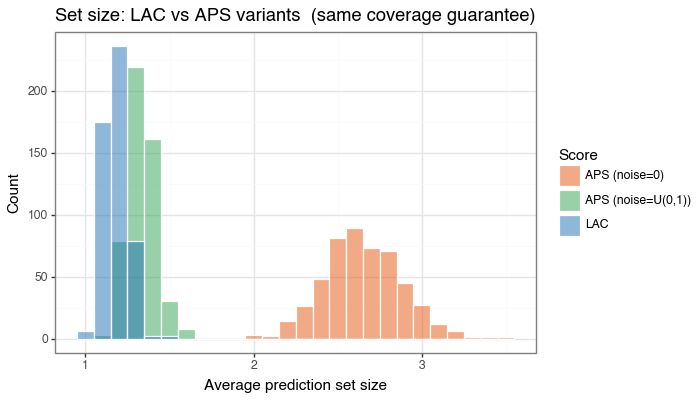
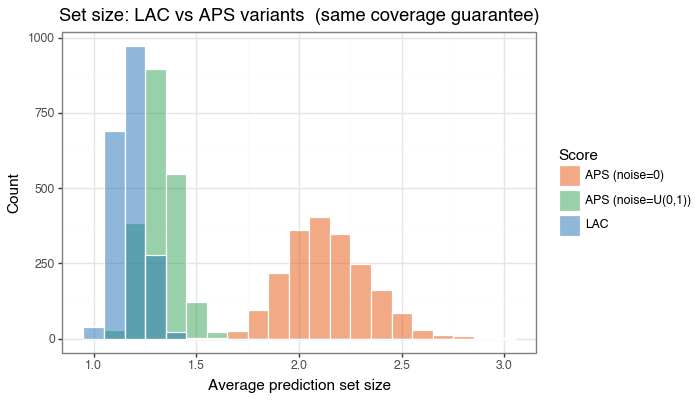
comparative plot fixed

diff --git a/_rmd/extra_conformal/post_figures.py b/_rmd/extra_conformal/post_figures.py
@@ -28,6 +28,7 @@ from _rmd.extra_conformal.utils import (
     NoisyGLM, simulation_cp,
     LinearQuantileRegressor, QuantileRegressors,
     StudentizedEstimator,
+    TemperatureScaledClassifier,
 )
 from _rmd.extra_conformal.conformal import (
     conformal_sets,
@@ -42,6 +43,9 @@ os.makedirs(dir_figs, exist_ok=True)
 
 seed = 42
 rng  = np.random.default_rng(seed)
+temperature_lac = 1.0
+temperature_aps_rand = 1.0
+temperature_aps_det = 5.0
 
 
 def parse_targets() -> set:
@@ -142,7 +146,10 @@ if 'digits' in targets:
     X_te, y_te   = raw_X_noisy[idx_test],  raw_y[idx_test]
 
     # Fit logistic regression with L2 to prevent perfect separation on noisy data
-    f_dig = LogisticRegression(C=0.1, max_iter=2000)
+    f_dig = TemperatureScaledClassifier(
+        base_estimator=LogisticRegression(C=0.1, max_iter=2000),
+        temperature=temperature_lac,
+    )
     f_dig.fit(X_tr, y_tr)
 
     # Calibrate LAC
@@ -237,19 +244,22 @@ if 'digits_v2' in targets:
     X_cal, y_cal = raw_X_noisy[idx_calib], raw_y[idx_calib]
     X_te, y_te   = raw_X_noisy[idx_test], raw_y[idx_test]
 
-    f_dig = LogisticRegression(C=0.1, max_iter=2000)
-    f_dig.fit(X_tr, y_tr)
-
     method_specs = [
-        ('LAC', score_lac, {}),
-        ('APS (noise=U(0,1))', score_aps, {'noise': 'uniform', 'random_state': 42}),
-        ('APS (noise=0)', score_aps, {'noise': 0.0, 'random_state': 42}),
+        ('LAC', score_lac, {}, temperature_lac),
+        ('APS (noise=U(0,1))', score_aps, {'noise': 'uniform', 'random_state': 42}, temperature_aps_rand),
+        ('APS (noise=0)', score_aps, {'noise': 0.0, 'random_state': 42}, temperature_aps_det),
     ]
 
     cp_methods = {}
-    for method_name, score_cls, score_kwargs in method_specs:
+    f_methods = {}
+    for method_name, score_cls, score_kwargs, temp in method_specs:
+        f_method = TemperatureScaledClassifier(
+            base_estimator=LogisticRegression(C=0.1, max_iter=2000),
+            temperature=temp,
+        )
+        f_method.fit(X_tr, y_tr)
         cp = conformal_sets(
-            f_theta=f_dig,
+            f_theta=f_method,
             score_fun=score_cls,
             alpha=alpha_d,
             upper=True,
@@ -257,10 +267,10 @@ if 'digits_v2' in targets:
         )
         cp.fit(x=X_cal, y=y_cal)
         cp_methods[method_name] = cp
-        print(f'  {method_name}: qhat={cp.qhat:.3f}')
+        f_methods[method_name] = f_method
+        print(f'  {method_name}: T={temp:.1f}, qhat={cp.qhat:.3f}')
 
     classes = np.arange(10)
-    phat_te = f_dig.predict_proba(X_te)
 
     # Pick 4 examples with varied LAC set sizes for diverse rows.
     lac_sets = cp_methods['LAC'].predict(X_te)
@@ -281,38 +291,71 @@ if 'digits_v2' in targets:
                 break
 
     panel_rows = []
+    panel_ann = []
+    panel_order = []
     for row_id, i in enumerate(picked, start=1):
-        phat_i = phat_te[i]
         true_i = int(y_te[i])
         example_label = f'Example {row_id}: true={true_i}'
-        for method_name, _, _ in method_specs:
+        for method_name, _, _, _ in method_specs:
             cp_i = cp_methods[method_name]
+            f_i = f_methods[method_name]
             qhat_i = cp_i.qhat
-            tau_i = cp_i.predict(X_te[[i]])[0]
-            in_set_i = set(tau_i)
+            phat_i = f_i.predict_proba(X_te[[i]])[0]
+            panel_id = f'{example_label} | {method_name}'
+            panel_order.append(panel_id)
 
-            # LAC has a global probability cutoff; APS has an example-specific
-            # boundary in probability space, so use the minimum included
-            # probability as a visual boundary for that panel.
             if method_name == 'LAC':
-                cutoff_prob = 1.0 - qhat_i
-            elif len(in_set_i) > 0:
-                cutoff_prob = float(np.min([phat_i[c] for c in in_set_i]))
+                idx_ord = np.arange(len(classes))
+                probs_sorted = phat_i[idx_ord]
+                in_set_sorted = probs_sorted >= (1.0 - qhat_i)
+                u_sorted = np.full_like(probs_sorted, np.nan, dtype=float)
+                cum_sorted = np.full_like(probs_sorted, np.nan, dtype=float)
+                ncs_sorted = np.full_like(probs_sorted, np.nan, dtype=float)
+                threshold_y = 1.0 - qhat_i
             else:
-                cutoff_prob = np.nan
+                idx_ord = np.argsort(-phat_i)
+                probs_sorted = phat_i[idx_ord]
+                u_sorted = cp_i.score_fun.draw_noise(probs_sorted.shape[0])
+                cum_sorted = np.cumsum(probs_sorted)
+                ncs_sorted = cum_sorted - u_sorted * probs_sorted
+                in_set_sorted = ncs_sorted <= qhat_i
+                threshold_y = qhat_i
+                idx_true = int(np.where(idx_ord == true_i)[0][0])
+                u_true = float(u_sorted[idx_true])
+                ann_label = f'u_true={u_true:.2f}'
+            
+            first_x_key = f'{panel_id}|01|{int(idx_ord[0])}'
+            if method_name == 'LAC':
+                ann_label = ''
+            panel_ann.append({
+                'panel_id': panel_id,
+                'x_key': first_x_key,
+                'y': 0.985,
+                'label': ann_label,
+            })
 
-            for c in classes:
+            for rank, c in enumerate(idx_ord, start=1):
+                x_key = f'{panel_id}|{rank:02d}|{int(c)}'
                 panel_rows.append({
                     'example': example_label,
                     'method': method_name,
-                    'class': str(c),
-                    'prob': float(phat_i[c]),
-                    'cutoff_prob': cutoff_prob,
-                    'in_set': bool(c in in_set_i),
+                    'panel_id': panel_id,
+                    'x_key': x_key,
+                    'class': str(int(c)),
+                    'prob': float(probs_sorted[rank - 1]),
+                    'cum_prob': float(cum_sorted[rank - 1]) if method_name != 'LAC' else np.nan,
+                    'ncs': float(ncs_sorted[rank - 1]) if method_name != 'LAC' else np.nan,
+                    'threshold_y': float(threshold_y),
+                    'u_draw': float(u_sorted[rank - 1]) if method_name != 'LAC' else np.nan,
+                    'in_set': bool(in_set_sorted[rank - 1]),
                     'true': bool(c == true_i),
                 })
 
     dat_v2 = pd.DataFrame(panel_rows)
+    dat_ann = pd.DataFrame(panel_ann)
+    panel_order = list(dict.fromkeys(panel_order))
+    dat_v2['panel_id'] = pd.Categorical(dat_v2['panel_id'], categories=panel_order, ordered=True)
+    dat_ann['panel_id'] = pd.Categorical(dat_ann['panel_id'], categories=panel_order, ordered=True)
     dat_v2['fill_group'] = np.where(dat_v2['true'], 'true label', 'other label')
     dat_v2['edge_group'] = np.where(dat_v2['in_set'], 'in set', 'excluded')
 
@@ -320,17 +363,28 @@ if 'digits_v2' in targets:
     dat_v2['method'] = pd.Categorical(dat_v2['method'], categories=method_order, ordered=True)
 
     gg_dig_v2 = (
-        pn.ggplot(dat_v2, pn.aes(x='class', y='prob', fill='fill_group', color='edge_group'))
+        pn.ggplot(dat_v2, pn.aes(x='x_key'))
         + pn.theme_bw()
-        + pn.geom_col(size=0.85)
-        + pn.geom_hline(pn.aes(yintercept='cutoff_prob'), linetype='dashed', color='black', size=0.5)
-        + pn.facet_grid('example~method')
+        + pn.geom_col(pn.aes(y='prob', fill='fill_group', color='edge_group'), size=0.85)
+        + pn.geom_line(pn.aes(y='cum_prob', group='panel_id'), color='#6A51A3', size=0.7)
+        + pn.geom_point(pn.aes(y='ncs', group='panel_id'), color='#FF7F0E', size=1.2, alpha=0.9)
+        + pn.geom_hline(pn.aes(yintercept='threshold_y'), linetype='dashed', color='black', size=0.5)
+        + pn.geom_text(
+            pn.aes(x='x_key', y='y', label='label'),
+            data=dat_ann,
+            inherit_aes=False,
+            ha='left',
+            va='top',
+            size=7,
+        )
+        + pn.facet_wrap('~panel_id', nrow=4, scales='free_x')
         + pn.scale_fill_manual(values={'true label': '#2171B5', 'other label': '#D9D9D9'})
         + pn.scale_color_manual(values={'in set': '#2CA02C', 'excluded': '#D62728'})
+        + pn.scale_x_discrete(labels=lambda xs: [x.split('|')[-1] for x in xs])
         + pn.scale_y_continuous(limits=(0, 1))
         + pn.labs(x='Digit class', y='Predicted probability', fill='Label type', color='Set membership')
-        + pn.ggtitle('Digits prediction sets (4x3): LAC vs APS variants\n'
-                     f'Rows=examples, columns=methods, α={alpha_d}; dashed line is method-specific probability cutoff')
+        + pn.ggtitle('Digits prediction sets in score space (4x3): LAC vs APS variants\n'
+                     f'LAC uses p_y cutoff; APS uses ranked classes, purple=cumsum, orange=cumsum-U*p, dashed=qhat, α={alpha_d}')
         + pn.theme(
             legend_position='bottom',
             figure_size=(13, 10),
@@ -357,27 +411,38 @@ if 'class_coverage' in targets or 'class_setsize' in targets:
     n_train_c  = 250
     n_calib_c  = 500
     n_val_c    = 100
-    nsim_c     = 500
+    nsim_c     = 2000
     alpha_c    = 0.10
 
     dgp_c = dgp_multinomial(p_sim, k_sim, snr=snr_c, seeder=seed)
 
     results_class = {}
     class_specs = [
-        ('LAC', score_lac, {}),
-        ('APS (noise=0)', score_aps, {'noise': 0.0, 'random_state': seed}),
-        ('APS (noise=U(0,1))', score_aps, {'noise': 'uniform', 'random_state': seed}),
+        ('LAC', score_lac, {}, temperature_lac),
+        ('APS (noise=0)', score_aps, {'noise': 0.0, 'random_state': seed}, temperature_aps_det),
+        ('APS (noise=U(0,1))', score_aps, {'noise': 'uniform', 'random_state': seed}, temperature_aps_rand),
     ]
     method_colors = {
         'LAC': '#2171B5',
         'APS (noise=0)': '#E6550D',
         'APS (noise=U(0,1))': '#31A354',
     }
-    for score_name, score_cls, score_kwargs in class_specs:
-        mdl_c = NoisyGLM(max_iter=250, noise_std=0.0, seeder=seed,
-                         subestimator=LogisticRegression, penalty=None)
-        cp_c = conformal_sets(f_theta=mdl_c, score_fun=score_cls,
-                              alpha=alpha_c, upper=True, **score_kwargs)
+    for score_name, score_cls, score_kwargs, temp in class_specs:
+        mdl_c = NoisyGLM(
+            max_iter=250,
+            noise_std=0.0,
+            seeder=seed,
+            temperature=temp,
+            subestimator=LogisticRegression,
+            penalty=None,
+        )
+        cp_c = conformal_sets(
+            f_theta=mdl_c,
+            score_fun=score_cls,
+            alpha=alpha_c,
+            upper=True,
+            **score_kwargs,
+        )
         sim_c = simulation_cp(dgp=dgp_c, ml_mdl=mdl_c, cp_mdl=cp_c,
                               is_classification=True)
         res = sim_c.run_simulation(n_train=n_train_c, n_calib=n_calib_c,
@@ -385,7 +450,7 @@ if 'class_coverage' in targets or 'class_setsize' in targets:
                                    force_redraw=True, n_iter=100, verbose=True)
         res['method'] = score_name
         results_class[score_name] = res
-        print(f"  {score_name}: cover={100*res['cover'].mean():.1f}%  "
+        print(f"  {score_name} (T={temp:.1f}): cover={100*res['cover'].mean():.1f}%  "
               f"set_size={res['set_size'].mean():.2f}")
 
     dat_class = pd.concat(results_class.values(), ignore_index=True)
@@ -466,6 +531,7 @@ if 'coverage_vs_alpha' in targets:
     rows_sweep   = []
     for a in alphas_sweep:
         mdl_sw = NoisyGLM(max_iter=250, noise_std=0.0, seeder=seed,
+                          temperature=temperature_lac,
                           subestimator=LogisticRegression, penalty=None)
         cp_sw  = conformal_sets(f_theta=mdl_sw, score_fun=score_lac,
                                 alpha=a, upper=True)

diff --git a/_rmd/extra_conformal/utils.py b/_rmd/extra_conformal/utils.py
@@ -30,6 +30,43 @@ def check_named_args(func, arg_names):
     assert matches, f'woops function={func} did not have named arguments={arg_names}, instead it had {param_names}'
 
 
+def temperature_scale_proba(proba: np.ndarray, temperature: float) -> np.ndarray:
+    """Apply temperature scaling to a probability matrix.
+
+    temperature=1 leaves probabilities unchanged. Higher values flatten,
+    lower values sharpen.
+    """
+    t = float(temperature)
+    if t <= 0:
+        raise ValueError('temperature must be > 0')
+    if np.isclose(t, 1.0):
+        return proba
+    logp = np.log(np.clip(proba, 1e-12, 1.0)) / t
+    logp = logp - logp.max(axis=1, keepdims=True)
+    p = np.exp(logp)
+    return p / p.sum(axis=1, keepdims=True)
+
+
+class TemperatureScaledClassifier(BaseEstimator):
+    """Wrap any classifier with predict_proba and apply temperature scaling."""
+    def __init__(self, base_estimator: Any, temperature: float = 1.0):
+        self.base_estimator = base_estimator
+        self.temperature = temperature
+
+    def fit(self, X: np.ndarray, y: np.ndarray, **kwargs):
+        self.base_estimator.fit(X, y, **kwargs)
+        if hasattr(self.base_estimator, 'classes_'):
+            self.classes_ = self.base_estimator.classes_
+        return self
+
+    def predict(self, X: np.ndarray) -> np.ndarray:
+        return self.base_estimator.predict(X)
+
+    def predict_proba(self, X: np.ndarray) -> np.ndarray:
+        p = self.base_estimator.predict_proba(X)
+        return temperature_scale_proba(p, self.temperature)
+
+
 class simulation_cp:
     def __init__(self,
                 dgp: Any, 
@@ -95,10 +132,14 @@ class simulation_cp:
 class NoisyGLM(BaseEstimator):
     """Using some sklearn subestimator"""
     def __init__(self, subestimator=None, 
-                 noise_std=0.1, seeder: int | None = None, **kwargs):
+                 noise_std=0.1,
+                 seeder: int | None = None,
+                 temperature: float = 1.0,
+                 **kwargs):
         self.subestimator = subestimator(**kwargs)
         self.noise_std = noise_std
         self.seeder = seeder
+        self.temperature = temperature
 
     def fit(self, X: np.ndarray, y: np.ndarray, **kwargs):
         self.subestimator.fit(X, y, **kwargs)
@@ -115,7 +156,8 @@ class NoisyGLM(BaseEstimator):
         return self.subestimator.predict(X)
 
     def predict_proba(self, X: np.ndarray) -> np.ndarray:
-        return self.subestimator.predict_proba(X)
+        p = self.subestimator.predict_proba(X)
+        return temperature_scale_proba(p, self.temperature)
 
 
 class LinearQuantileRegressor:

diff --git a/_posts/2025-12-05-conformal.md b/_posts/2025-12-05-conformal.md
@@ -238,6 +238,33 @@ The figure below shows eight test images from the digits dataset (with added noi
 
 <br>
 
+### (2.3a) Comparative view: LAC vs APS in score space
+
+The figure below shows four different test images, each with three columns comparing LAC, randomized APS (`U ~ Uniform(0,1)`), and deterministic APS (`U=0`). This visualization makes the different scoring logic transparent.
+
+**LAC column (left):**
+- Bars show the model's predicted probabilities in the original class order (0–9).
+- Dashed line is the inclusion cutoff $1-\hat{q}$: classes above this line (green borders) are in the prediction set.
+- The decision rule is simple: use a global threshold.
+
+**APS columns (middle and right):**
+- Classes are sorted by descending probability: the highest-probability class is labeled 0, the next is 1, etc.
+- Bars still show individual class probabilities (the height of each bar is the original model's softmax).
+- **Purple line**: cumulative probability $\sum_{j \le k} p_{(\pi_j)}$, where $(\pi_1), (\pi_2), \ldots$ is the sorted order.
+- **Orange dots**: the realized APS nonconformity score for each class, $s_{APS}(x, c) = \text{cumsum}_c - U_c \cdot p_c$.  
+  - For deterministic APS, $U_c = 0$, so the orange dots exactly follow the purple line.
+  - For randomized APS, $U_c$ is drawn once per test image; you see the unique realization as a label (`u_true=...`) in the first bar.
+- **Dashed line**: $\hat{q}$, the conformal threshold. Classes whose APS score (orange dot) falls below the dashed line are included in the prediction set.
+
+**Key insight:** The APS score "consumes" probability mass as you move down the ranked list. A class near the top of the ranking (say, position 2) has a lower cumulative sum and is thus less likely to exceed $\hat{q}$. A class near the bottom (position 9) has burned through all prior probability and is unlikely to be included. This ranking-based logic makes APS adaptive: it naturally biases toward high-probability classes while automatically expanding the set when the model is uncertain (flat probabilities, high cumsum).
+
+<center><h4>Figure 1b: LAC vs APS variants in score space  (α=0.10)</h4>
+<p><img src="/figures/conformal_digits_sets_v2.png" width="100%"></p>
+<p><i>4×3 grid: rows = four test examples, columns = LAC / APS randomized / APS deterministic. LAC uses a global probability cutoff (dashed line at 1−q̂). APS ranks classes by probability and plots cumulative probability (purple line) and realized NCS scores (orange dots); inclusion is determined by score ≤ q̂. For randomized APS, the label u_true shows the uniform random draw for that example. The color coding (green = in set, grey = excluded, blue = true label) is consistent across all three methods.</i></p>
+</center>
+
+<br>
+
 ### (2.4) Simulation: LAC vs APS — same coverage, different efficiency
 
 The following simulation compares LAC, deterministic APS (`noise=0`), and the textbook randomized APS (`noise=U(0,1)`) across 500 independent trials on a synthetic \\(k=6\\) class multinomial problem. In each trial, a logistic regression is trained on \\(n_{\text{train}}=250\\) observations, calibrated on \\(n_{\text{cal}}=500\\), and evaluated on \\(n_{\text{val}}=100\\) test points.
